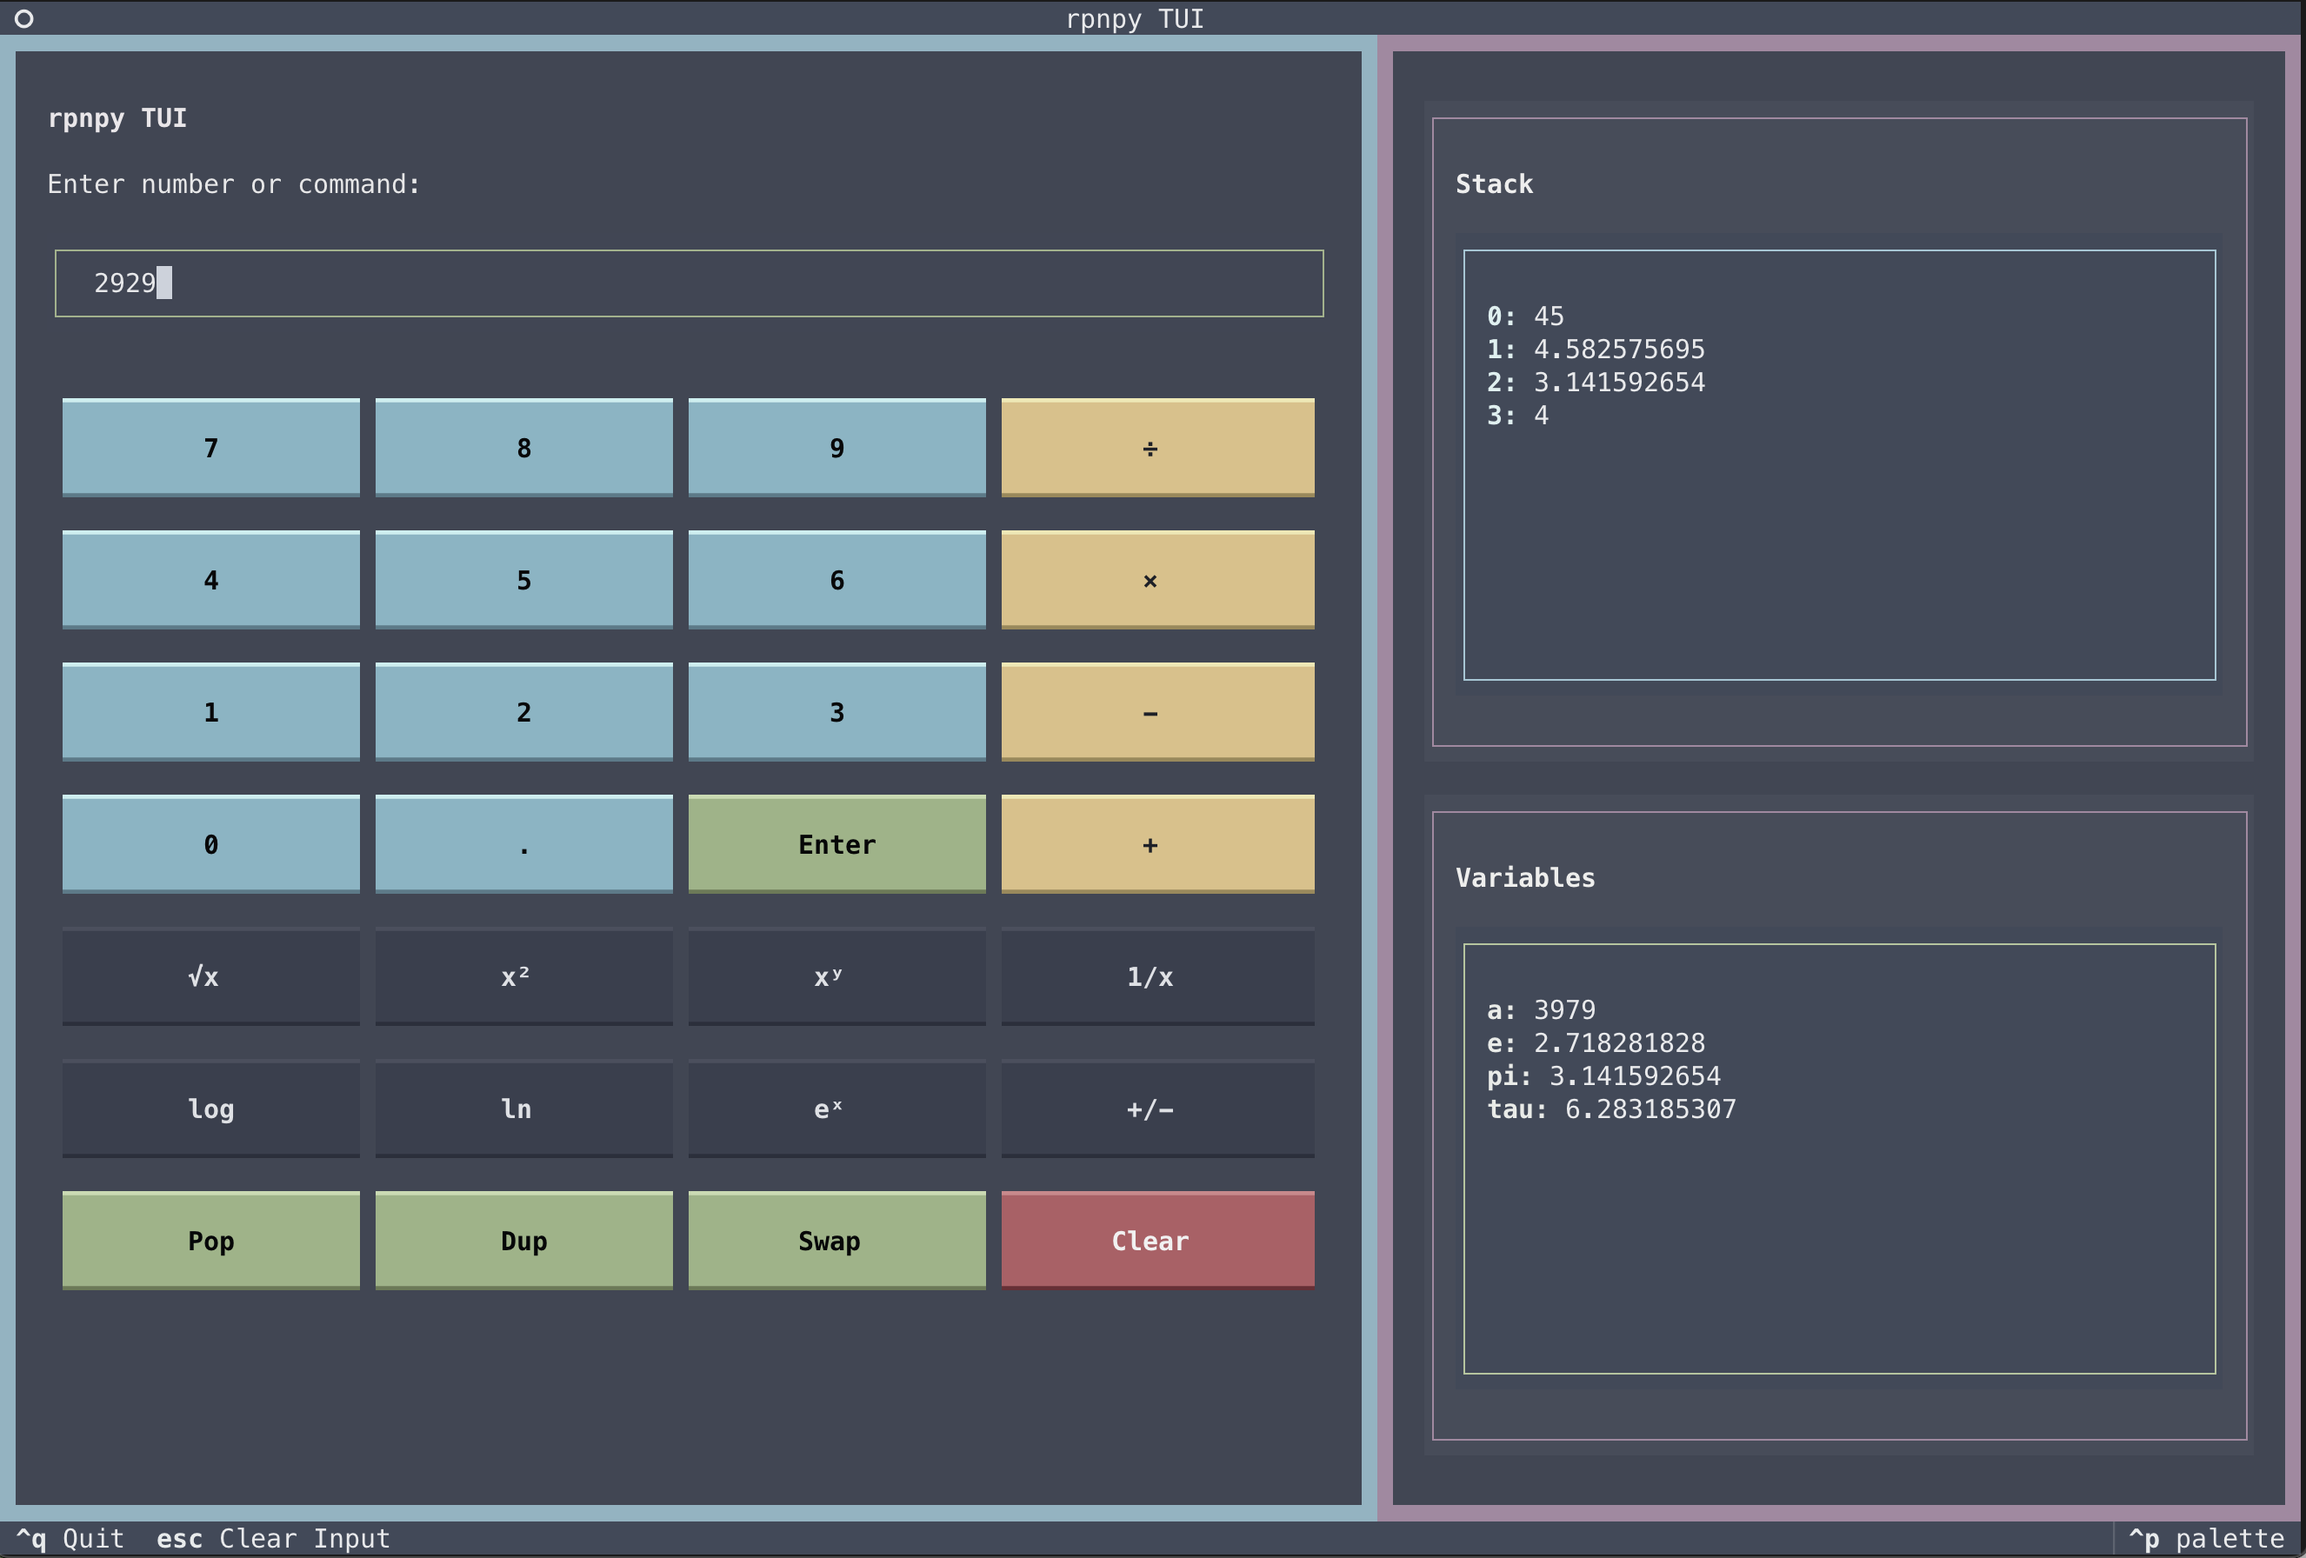
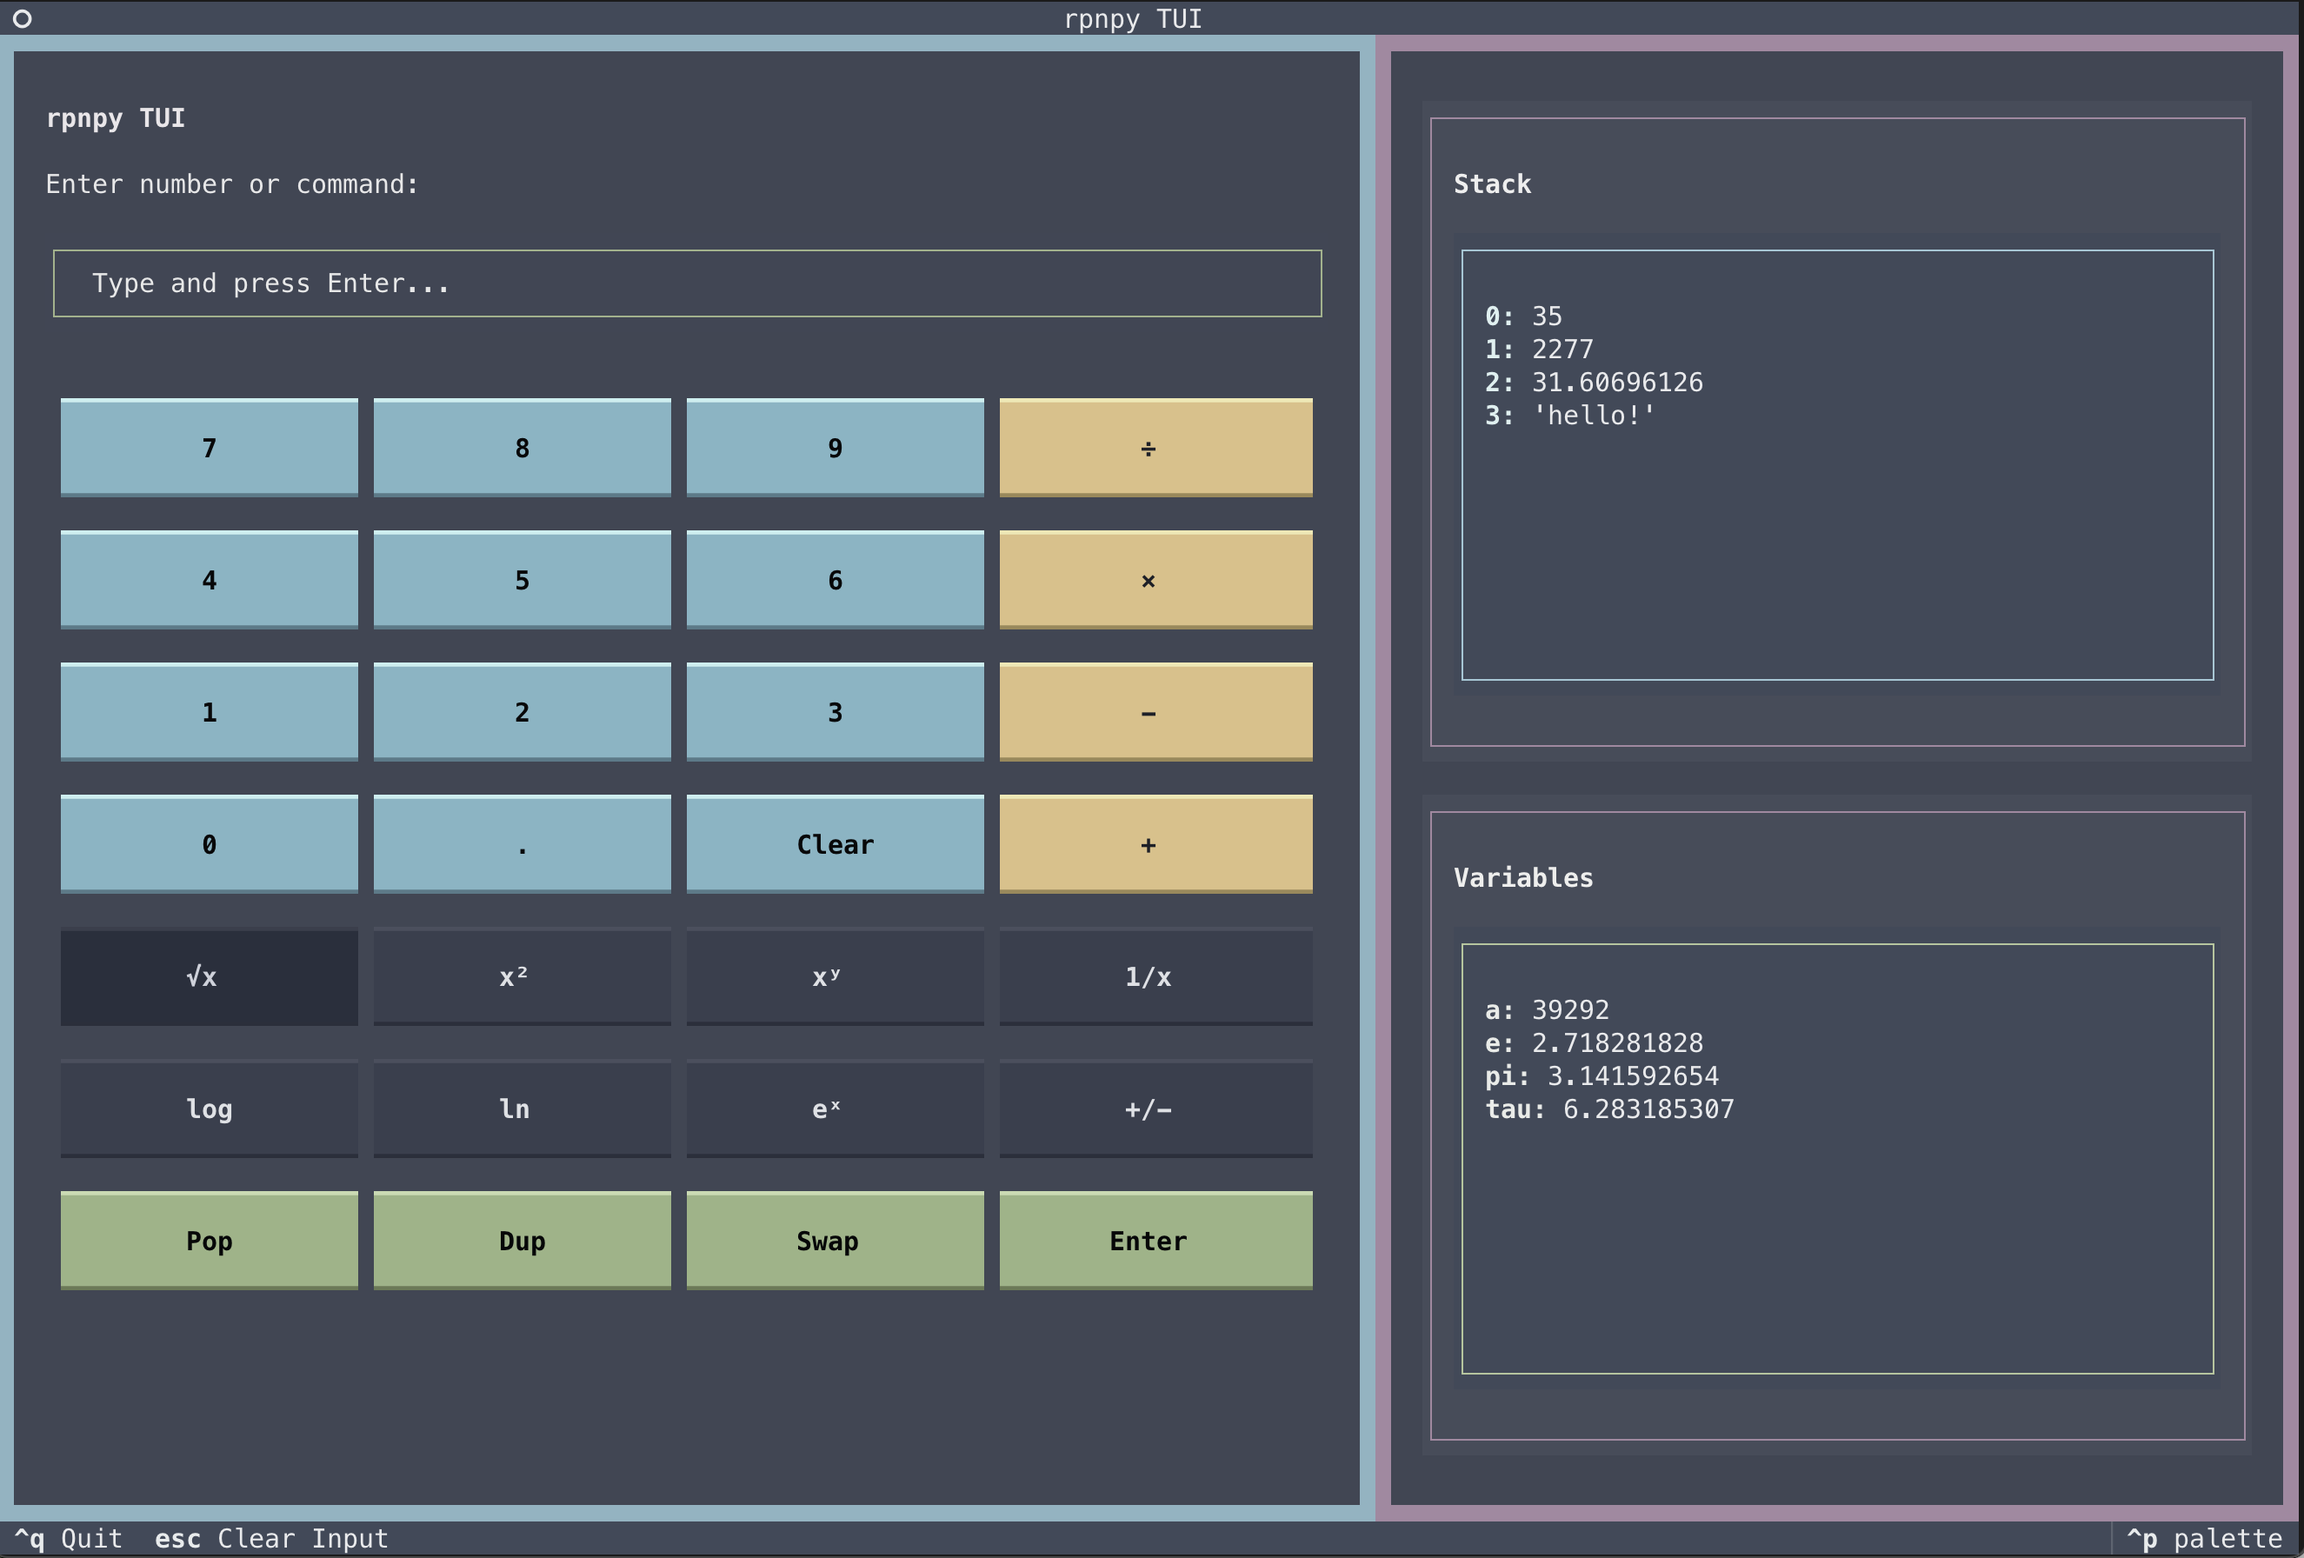
Improve button coloring. Updated screenshot.

diff --git a/src/rpnpy/tui.py b/src/rpnpy/tui.py
@@ -281,7 +281,7 @@ class CalculatorTUI(App):
             with Horizontal(classes="button-row"):
                 yield CalculatorButton("0", "0", variant="primary")
                 yield CalculatorButton(".", ".", variant="primary")
-                yield CalculatorButton("Enter", "enter", variant="success")
+                yield CalculatorButton("Clear", "clear", variant="primary")
                 yield CalculatorButton("+", "+", variant="warning")
 
             # Mathematical functions row 1
@@ -303,7 +303,7 @@ class CalculatorTUI(App):
                 yield CalculatorButton("Pop", "pop", variant="success")
                 yield CalculatorButton("Dup", "dup", variant="success")
                 yield CalculatorButton("Swap", "swap", variant="success")
-                yield CalculatorButton("Clear", "clear", variant="error")
+                yield CalculatorButton("Enter", "enter", variant="success")
 
     @on(Button.Pressed, "CalculatorButton")
     async def handle_calculator_button(self, event: Button.Pressed) -> None:
@@ -329,6 +329,10 @@ class CalculatorTUI(App):
             if input_field.value.strip():
                 self._execute_command(input_field.value.strip())
                 input_field.value = ""
+        elif command == "clear":
+            # Clear button - discard any pending input and clear the stack
+            input_field.value = ""
+            self._execute_command(command)
         else:
             # For operation buttons, first execute any pending input
             if input_field.value.strip():
@@ -372,8 +376,11 @@ class CalculatorTUI(App):
         try:
             if command == "clear":
                 # Clear the stack
-                self.calc.stack.clear()
-                self.notify("Stack cleared", severity="information")
+                if self.calc.stack:
+                    self.calc.stack.clear()
+                    self.notify("Stack cleared", severity="information")
+                else:
+                    self.calc.stack.clear()
             else:
                 # Execute the command through the calculator
                 success = self.calc.execute(command)
